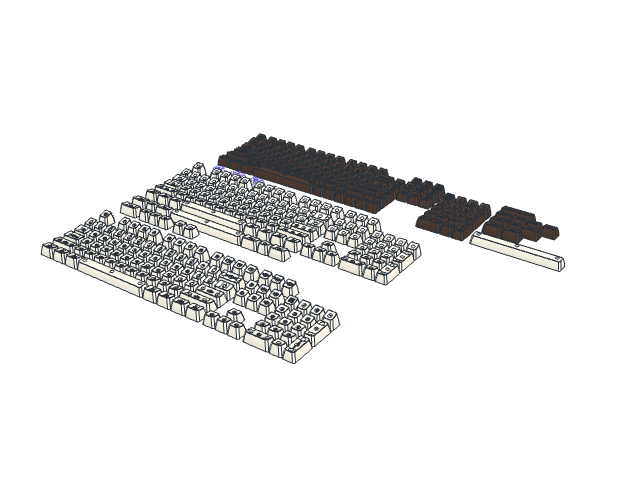
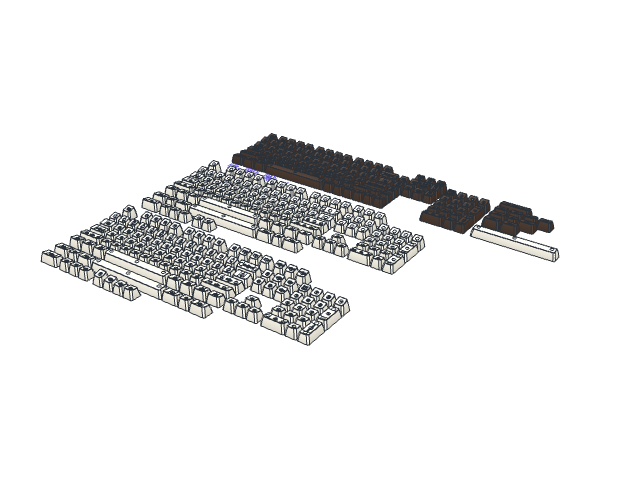
Add the project guide kits (AI)

Changed region(s): [[0.0625, 0.2812, 0.9062, 0.7812]]

diff --git a/guides/kits.md b/guides/kits.md
@@ -1,0 +1,55 @@
+---
+title: Keycap kits: what to print for each board
+summary: Which keycap groups and parts make up each legend option (C64, plain, blank) and each ANSI board size (60%, 65%, 75%, TKL, full size, tsangan).
+keywords: kit, layout, 60%, 65%, 75%, TKL, full size, tsangan, print files, which keys
+always: true
+---
+
+# Keycap kits: what to print for each board
+
+All caps are SA profile with MX stems. Rows: **R1** = F row and number row, **R2** = Q row,
+**R3** = home row (also the spacebars and the upright numpad + / Enter), **R4** = shift and bottom rows.
+Every legend cap prints together with its inlay (`ink_<part>`, set with printWith), so it is one object
+in the 3MF. Blanks have no inlay.
+
+## Legend options (assembly groups)
+
+| Option | What to print | Caps |
+|---|---|---|
+| C64 | the original Ajazz 75% set (the parts in no group: `k_*`, `key_*`) + group `c64_addon` | 75% set + 37 add-on |
+| Plain | groups `plain_full` + `plain_extras` | 104 + 15 |
+| Blank | groups `blank_full` + `blank_extras` | 104 + 13 |
+
+`c64_addon` = TKL nav (PrtSc, ScrLk, Pause, Ins, Home, PgUp R1, Del/End/PgDn R2), the 17-key numpad,
+full-size right mods (2.75u Shift, 1.25u Alt / Win / Menu / Ctrl) and tsangan mods (1.5u Ctrl ×2,
+1.5u Alt ×2, 1u C=, 7u space).
+`plain_extras` / `blank_extras` = tsangan row (1.5u Ctrl ×2, 1u Win, 1.5u Alt ×2, 1u Fn, 7u space) and
+the 65%/75% row (1.75u right Shift, 1u Alt / Fn / Ctrl, Del R1, PgUp R2, PgDn R3, End R4).
+
+## Per board (ANSI)
+
+| Board | From the full-size group | Plus |
+|---|---|---|
+| 60% | number row with 2u Backspace, Q row, home row, shift row (2.25u + 2.75u Shift), bottom row (1.25u ×7, 6.25u space) | Esc instead of ` if the board puts Esc there |
+| 65% | 60% without the 2.75u Shift and the right 1.25u mods; arrows ↑ ← ↓ → | extras: 1.75u Shift, 1u Alt / Fn / Ctrl, Del R1, PgUp R2, PgDn R3, End R4 |
+| 75% | 65% + Esc and F1–F12 | one more R1 key top right (Del, Ins or Home from the full set) |
+| TKL | everything except the 17 numpad keys | — |
+| Full size | everything in the full-size group | — |
+| Tsangan bottom row | instead of the 1.25u bottom row | extras: 1.5u Ctrl ×2, 1u Win, 1.5u Alt ×2, 1u Fn, 7u space |
+
+C64 option: the original set already is a 75%. For a 65% leave out the F row; for a 60% add the
+2.75u Shift and 1.25u right mods from `c64_addon`; for TKL and full size add its nav cluster and numpad;
+tsangan mods are in it too.
+
+## Stabilizers
+
+Every cap 2u and wider has stab stems at Cherry spacing: 23.8 mm on 2u, 2.25u and 2.75u
+(`stab_2u`), 100 mm on 6.25u (`stab_625`), 114.3 mm on 7u (`stab_7u`). The numpad + and Enter are
+the 2u cap turned upright, for vertical stabilizers.
+
+## Files
+
+- `exports/keycaps-<hash>.3mf`: every part as laid out, one object per cap with its inlay. Delete the
+  groups you don't need in the slicer, or export single parts from the app.
+- Plain legends currently use the C64 Keyboard font (caps only): the geometry server only loaded that
+  font. Switch the plain set to Roboto Bold once it loads.
